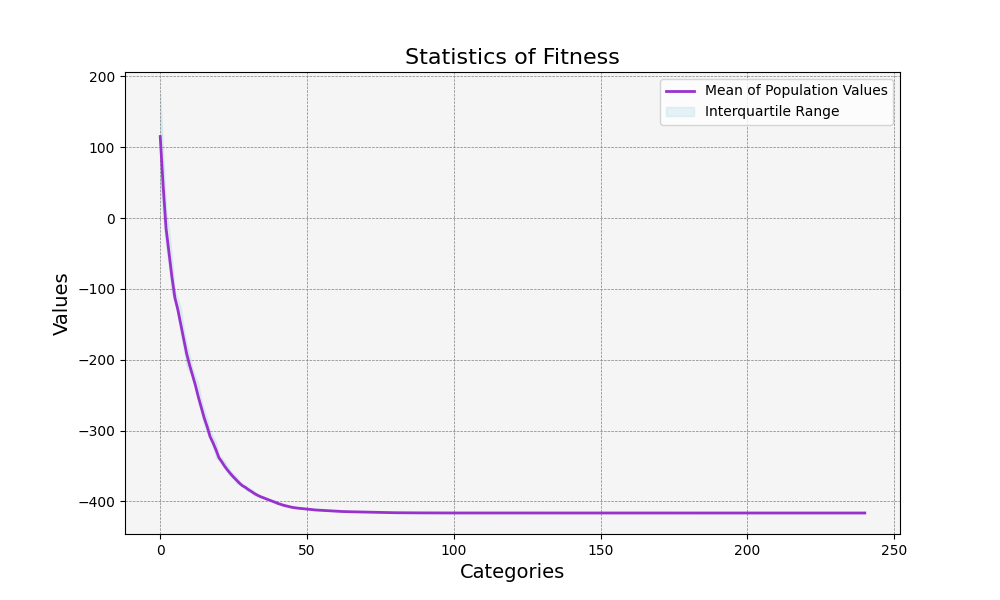
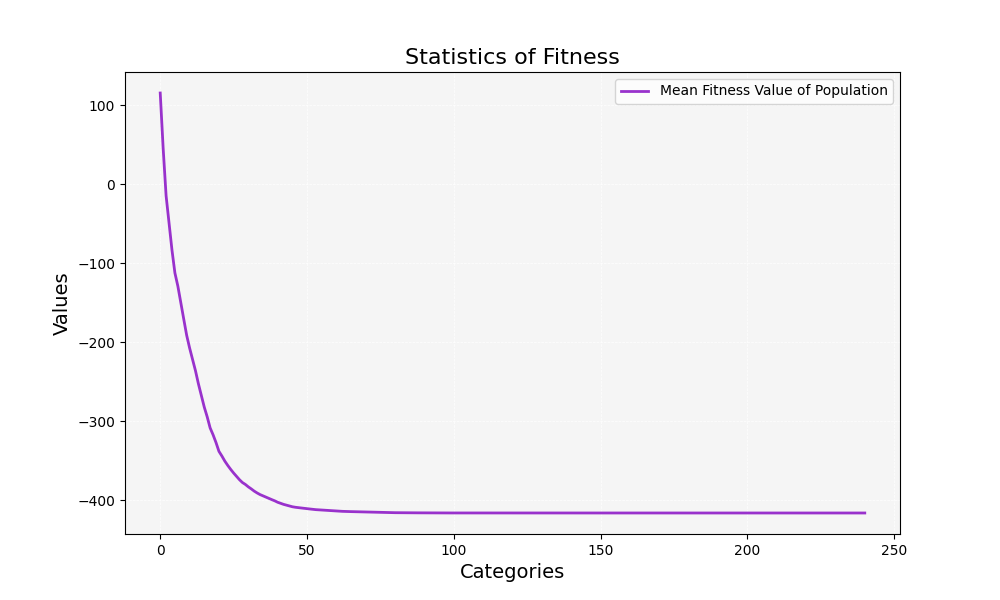
Update #21

diff --git a/postprocessing.py b/postprocessing.py
@@ -18,9 +18,7 @@ def total_convergence(n_gen, timewindow, pop_size, X, Y):
 
     # Plot the mean from Y_stats with customization
     Y_stats['mean'].plot(ax=ax, color=cmap(0.5), linestyle='-', linewidth=2,
-                         label='Mean of Population Values')  # Customize the plot with linestyle, linewidth, and label
-    ax.fill_between(Y_stats.index, Y_stats['25%'], Y_stats['75%'], color='lightblue', alpha=0.3,
-                    label='Interquartile Range')  # Fill the area between 25th and 75th percentile with a light blue color
+                         label='Mean Fitness Value of Population')  # Customize the plot with linestyle, linewidth, and label
     ax.legend()
 
     # Add titles and axis labels
@@ -30,7 +28,7 @@ def total_convergence(n_gen, timewindow, pop_size, X, Y):
 
     # Customize background and grid
     ax.set_facecolor('whitesmoke')  # Background color
-    ax.grid(True, linestyle='--', linewidth=0.5, color='gray')  # Dashed grid lines with 0.5 linewidth and gray color
+    ax.grid(True, linestyle='--', linewidth=0.5, color='white')  # Dashed grid lines with 0.5 linewidth and gray color
 
     # Save the figure
     plt.savefig('Plots/total_convergence.png')
